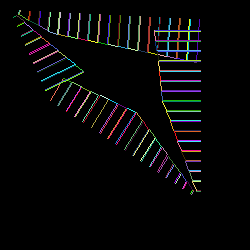
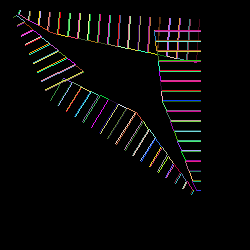
getting there...

diff --git a/add_buildings.js b/add_buildings.js
@@ -1,10 +1,10 @@
-const { CityBuilder, add_buildings, is_lot_open } = require("./src/city_builder")
+const { CityBuilder, add_buildings, is_lot_open, add_buildings_to_lot_edges } = require("./src/city_builder")
 
 // Make a Bezier City
 
 const seed = 1024
 const num_curves = 16
-const scale = 10
+const scale = 2
 
 const city_builder = new CityBuilder(seed, num_curves, scale);
 
@@ -17,19 +17,18 @@ city_builder.split_streets();
 city_builder.add_lots();
 
 
-const building_size = 5;
+const building_size = 20;
 
 city_builder.lots.forEach(lot => {
 
     const line = is_lot_open(lot.edges)
 
     if (line !== undefined) {
-        console.log(line)
         lot.edges.push(line)
     }
 
     try {
-        buildings = add_buildings(lot.edges, building_size)
+        buildings = add_buildings_to_lot_edges(lot.edges)  // building_size
         lot.buildings = buildings
     }
     catch (err){
@@ -58,21 +57,25 @@ plotter.init(() => {
                 edge.geometry.end.x,
                 edge.geometry.end.y);
             plotter.plot_points(points, colour);
-
         });
 
         if (lot.buildings !== undefined) {
-
             lot.buildings.forEach(building => {
-                var points = bresenham(building.geometry.start.x,
-                    building.geometry.start.y,
-                    building.geometry.end.x,
-                    building.geometry.end.y);
-                plotter.plot_points(points, colour);
-            });
+                building.forEach(lines => {
+                    lines.geometry.forEach(line => {
+                    var points = bresenham(line.geometry.start.x,
+                                           line.geometry.start.y,
+                                           line.geometry.end.x,
+                                           line.geometry.end.y);
+                    plotter.plot_points(points, colour);
+
+                    })
+                })
+            })
+        }
         }
     
-    });
+    );
 
     plotter.write();
              
